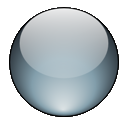
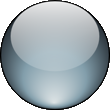
Resize player to improve fun quotient.

diff --git a/main.cpp b/main.cpp
@@ -282,7 +282,7 @@ int main()
 {
     RenderWindow window(VideoMode(800, 600), "Flaming Octo Avenger!");
     View view = window.getDefaultView();
-    Player player(100.f, 100.f);
+    Player player(90.f, 90.f);
     int key_code;
     vector<Object *> objects = read_objects("objects.txt");
 
